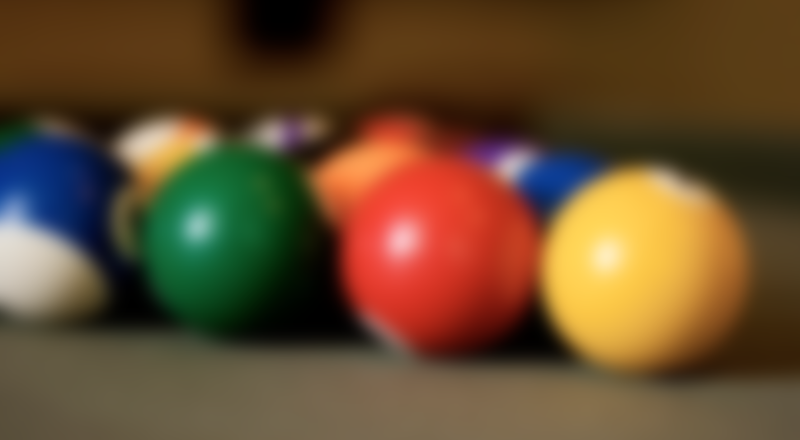
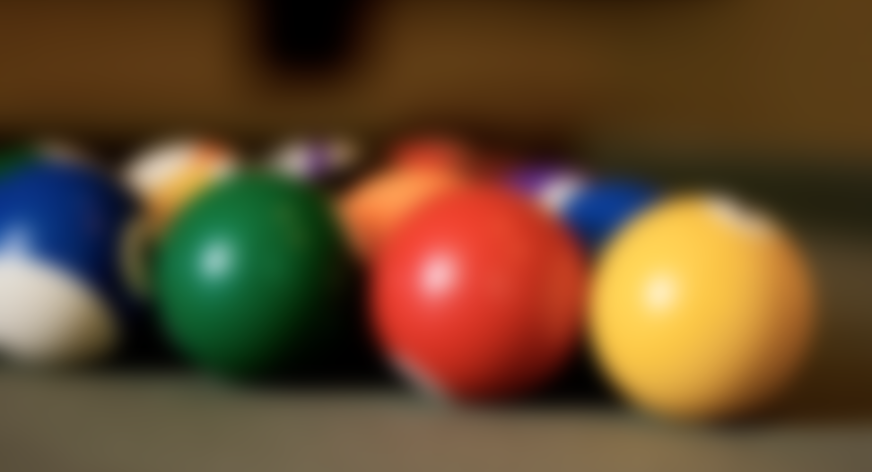
Incorporated new background image into game

Changed region(s): [[0.0, 0.2364, 1.0, 0.9455]]

diff --git a/src/edu/ncsu/billiards/gamestates/SimulationState.java b/src/edu/ncsu/billiards/gamestates/SimulationState.java
@@ -178,18 +178,18 @@ public class SimulationState implements GameState {
 				VelocityLine line = selectedPocket.getVelocityLine();
 				line.setEnd(newX, newY);
 
-				Vector2 unitDirectionVector = line.getUnitDirectionVector();
+				Vector2 directionVector = line.getDirectionVector();
 
 				double[] start = line.getStart();
 				double startX = start[0];
 				double startY = start[1];
 
 				// scale the unit vector
-				unitDirectionVector.setMagnitude(.2);
+				directionVector.setMagnitude(.2);
 
 				// set the velocity line's distance to scaled unit vector
-				line.setEnd(startX + unitDirectionVector.x,
-				            startY + unitDirectionVector.y);
+				line.setEnd(startX + directionVector.x,
+				            startY + directionVector.y);
 			}
 		}
 
@@ -243,7 +243,6 @@ public class SimulationState implements GameState {
 
 				selectedBall.applyForce(force);
 
-				//predictionWorld.sync(SimulationState.this.gameWorld);
 				predictionWorld.runSimulation(SimulationState.this.gameWorld);
 
 				selectedBall.getVelocityLine().setStart(0, 0);
@@ -255,10 +254,10 @@ public class SimulationState implements GameState {
 
 			if (draggingFromPocket) {
 				VelocityLine line = selectedPocket.getVelocityLine();
-				Vector2 unitDirectionVector = line.getUnitDirectionVector();
+				Vector2 directionVector = line.getDirectionVector();
 				
 				// set the pocket's exit direction
-				selectedPocket.setUnitExitDirection(unitDirectionVector);
+				selectedPocket.setExitDirection(directionVector);
 				
 				draggingFromPocket = false;
 				selectedPocket = null;

diff --git a/src/edu/ncsu/billiards/gamestates/MenuState.java b/src/edu/ncsu/billiards/gamestates/MenuState.java
@@ -5,6 +5,8 @@ import edu.ncsu.billiards.Renderer;
 
 import edu.ncsu.billiards.gamestates.SimulationState;
 
+import edu.ncsu.billiards.setups.GlancingBlowSetup;
+import edu.ncsu.billiards.setups.NoCollisionSetup;
 import edu.ncsu.billiards.setups.ParadoxSetup;
 
 import edu.ncsu.billiards.ui.Button;
@@ -143,8 +145,15 @@ public class MenuState implements GameState {
 		}
 
 		public void mouseClicked(int button, float x, float y, int clickCount) {
-			if (paradoxButton.getHitBox().contains(x, y)) {
+			if (noCollisionButton.getHitBox().contains(x, y)) {
+				game.changeState(new SimulationState(new NoCollisionSetup()));
+
+			} else if (glancingBlowButton.getHitBox().contains(x, y)) {
+				game.changeState(new SimulationState(new GlancingBlowSetup()));
+
+			} else if (paradoxButton.getHitBox().contains(x, y)) {
 				game.changeState(new SimulationState(new ParadoxSetup()));
+
 			} else if (exitButton.getHitBox().contains(x, y)) {
 				System.exit(0);
 			}

diff --git a/src/edu/ncsu/billiards/setups/ParadoxSetup.java b/src/edu/ncsu/billiards/setups/ParadoxSetup.java
@@ -9,26 +9,6 @@ import java.util.ArrayList;
 import org.newdawn.slick.Color;
 
 public class ParadoxSetup extends Setup {
-	public ArrayList<Cushion> generateCushions() {
-		ArrayList<Cushion> cushions = new ArrayList<Cushion>();
-
-		Cushion topLeft     = new Cushion( .5f  ,  .235f, .785f, .1f  );
-		Cushion topRight    = new Cushion(1.385f,  .235f, .785f, .1f  );
-		Cushion left        = new Cushion( .335f,  .4f  , .1f  , .666f);
-		Cushion right       = new Cushion(2.235f,  .4f  , .1f  , .666f);
-		Cushion bottomLeft  = new Cushion( .5f  , 1.135f, .785f, .1f  );
-		Cushion bottomRight = new Cushion(1.385f, 1.135f, .785f, .1f  );
-
-		cushions.add(topLeft);
-		cushions.add(topRight);
-		cushions.add(left);
-		cushions.add(right);
-		cushions.add(bottomLeft);
-		cushions.add(bottomRight);
-
-		return cushions;
-	}
-
 	public ArrayList<Pocket> generatePockets() {
 		ArrayList<Pocket> pockets = new ArrayList<Pocket>();
 

diff --git a/src/edu/ncsu/billiards/setups/Setup.java b/src/edu/ncsu/billiards/setups/Setup.java
@@ -7,7 +7,21 @@ import edu.ncsu.billiards.gameobjects.PoolBall;
 import java.util.ArrayList;
 
 public abstract class Setup {
-	public abstract ArrayList<Cushion> generateCushions();
+	public final ArrayList<Cushion> generateCushions() {
+		ArrayList<Cushion> cushions = new ArrayList<Cushion>();
+
+		Cushion top    = new Cushion( .217f,  .111f, 2.225f,  .106f);
+		Cushion bottom = new Cushion( .217f, 1.222f, 2.225f,  .106f);
+		Cushion left   = new Cushion( .111f,  .217f,  .106f, 1.005f);
+		Cushion right  = new Cushion(2.442f,  .217f,  .106f, 1.005f);
+
+		cushions.add(top);
+		cushions.add(bottom);
+		cushions.add(left);
+		cushions.add(right);
+
+		return cushions;
+	}
 
 	public abstract ArrayList<Pocket> generatePockets();
 

diff --git a/src/edu/ncsu/billiards/setups/GlancingBlowSetup.java b/src/edu/ncsu/billiards/setups/GlancingBlowSetup.java
@@ -7,17 +7,10 @@ import edu.ncsu.billiards.gameobjects.PoolBall;
 import java.util.ArrayList;
 
 public class GlancingBlowSetup extends Setup {
-	public ArrayList<Cushion> generateCushions() {
-		ArrayList<Cushion> cushions = new ArrayList<Cushion>();
-
-		return cushions;
-	}
-
 	public ArrayList<Pocket> generatePockets() {
 		ArrayList<Pocket> pockets = new ArrayList<Pocket>();
 
 		return pockets;
-
 	}
 
 	public ArrayList<PoolBall> generateBalls() {

diff --git a/src/edu/ncsu/billiards/setups/NoCollisionSetup.java b/src/edu/ncsu/billiards/setups/NoCollisionSetup.java
@@ -7,17 +7,10 @@ import edu.ncsu.billiards.gameobjects.PoolBall;
 import java.util.ArrayList;
 
 public class NoCollisionSetup extends Setup {
-	public ArrayList<Cushion> generateCushions() {
-		ArrayList<Cushion> cushions = new ArrayList<Cushion>();
-
-		return cushions;
-	}
-
 	public ArrayList<Pocket> generatePockets() {
 		ArrayList<Pocket> pockets = new ArrayList<Pocket>();
 
 		return pockets;
-
 	}
 
 	public ArrayList<PoolBall> generateBalls() {

diff --git a/src/edu/ncsu/billiards/Renderer.java b/src/edu/ncsu/billiards/Renderer.java
@@ -14,8 +14,9 @@ import org.newdawn.slick.Image;
 import org.newdawn.slick.geom.Rectangle;
 
 public class Renderer {
-	// 300 pixels per meter
-	public static final float SCALE = 300;
+	// Pixels per meter
+	// 8 feet is 2.4 meters. 800 pixels / 2.4 meters is 328 pixels per meter.
+	public static final float SCALE = 328;
 
 	public static void render(Cushion cushion, Graphics graphics) {
 		graphics.setColor(Color.orange);

diff --git a/src/edu/ncsu/billiards/Billiards.java b/src/edu/ncsu/billiards/Billiards.java
@@ -14,8 +14,8 @@ public class Billiards extends BasicGame {
 	private static final String GAME_TITLE = "Billiards";
 
 	// dimensions in pixels
-	private static final int WINDOW_WIDTH  = 800;
-	private static final int WINDOW_HEIGHT = 440;
+	private static final int WINDOW_WIDTH  = 872;
+	private static final int WINDOW_HEIGHT = 472;
 
 	private GameState gameState;
 

diff --git a/src/edu/ncsu/billiards/gameobjects/VelocityLine.java b/src/edu/ncsu/billiards/gameobjects/VelocityLine.java
@@ -34,7 +34,7 @@ public class VelocityLine {
 		return new double[]{endX, endY};
 	}
 
-	public Vector2 getUnitDirectionVector() {
-		return (new Vector2(endX - startX, endY - startY)).getNormalized();
+	public Vector2 getDirectionVector() {
+		return new Vector2(endX - startX, endY - startY);
 	}
 }

diff --git a/src/edu/ncsu/billiards/gameobjects/Pocket.java b/src/edu/ncsu/billiards/gameobjects/Pocket.java
@@ -63,7 +63,7 @@ public class Pocket extends Body {
 		this.timeDifference = time;
 	}
 
-	public void setUnitExitDirection(Vector2 direction) {
+	public void setExitDirection(Vector2 direction) {
 		this.unitExitDirection = direction.getNormalized();
 	}
 
